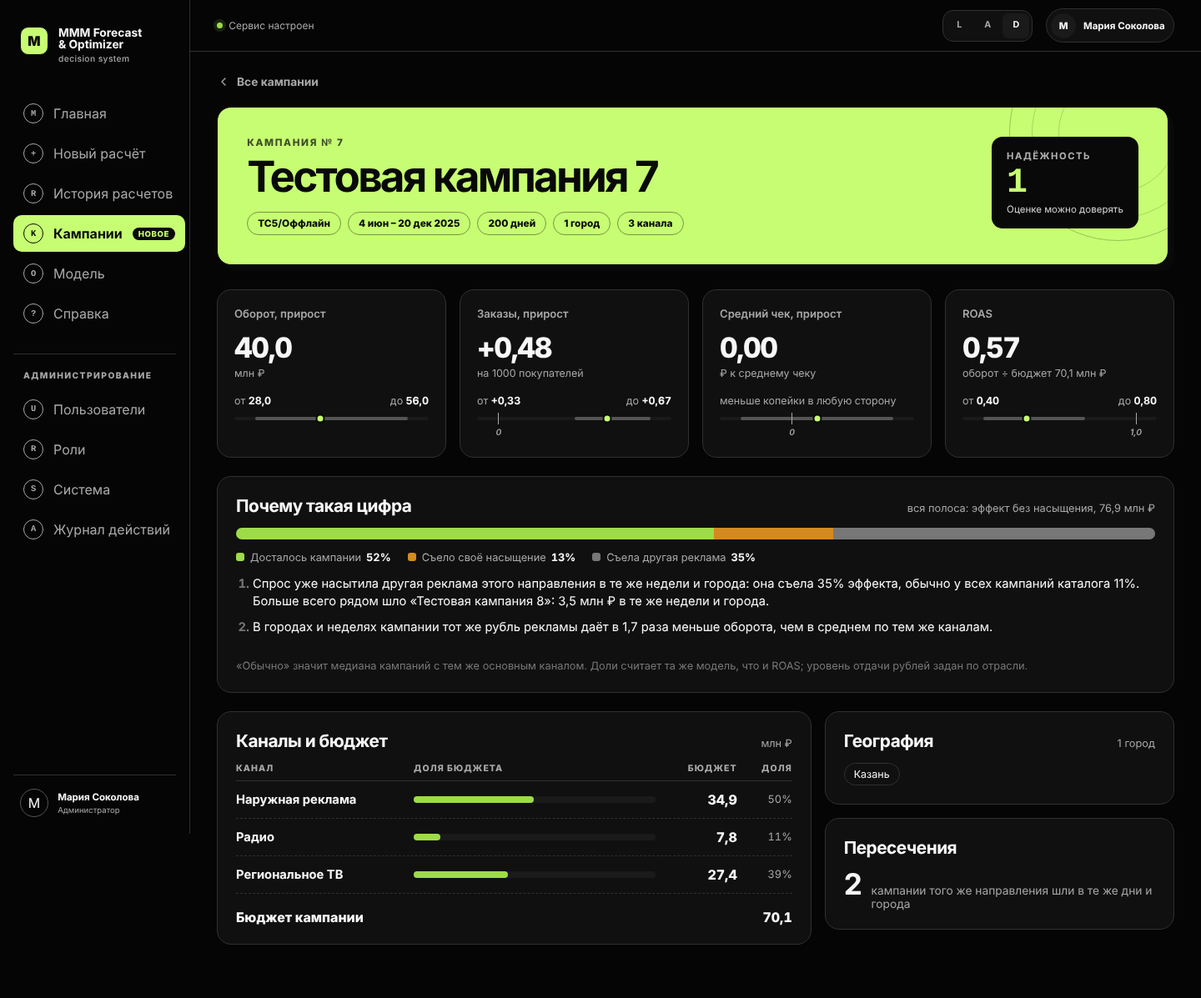
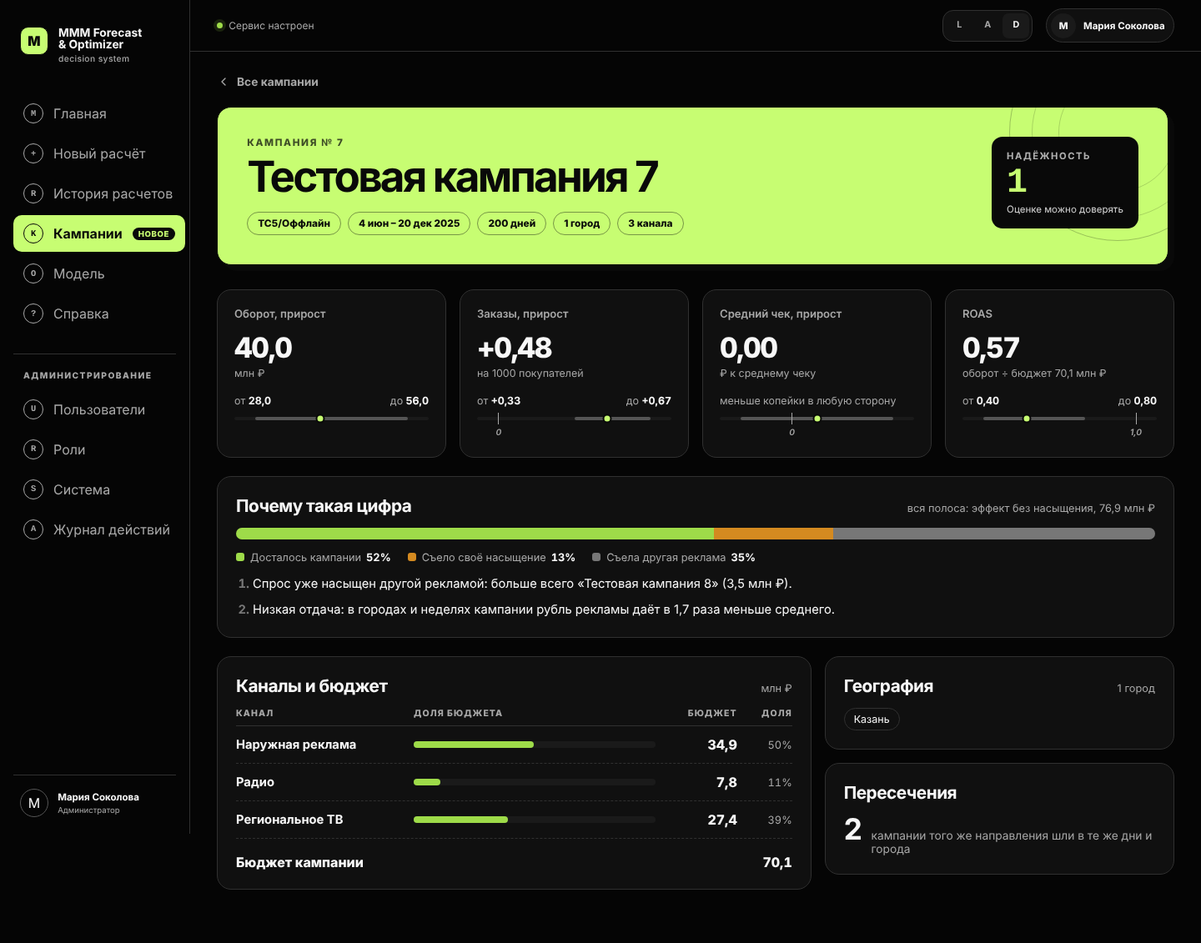
Past campaign reasons: short phrases, no caption under the bar
The owner asked for short, punchy reasons on five sample campaigns. Each
reason is now one phrase («Достигнут предел насыщения: весь бюджет в одном
месте (Екатеринбург)», «Спрос уже насыщен другой рекламой: больше всего
«Супергерои» (140 млн ₽)», «Эффект выходит за конец данных: 12% досчитано
прогнозом»); the shares stay on the bar. Notes can be one clause after a colon
(style clause), one ledger fact at most. New reason low_loss («Потерь меньше
обычного») only when nothing else pulls the number down. The caption under the
bar is gone; the model and industry-level remark stays on the technical sheet.

Claude-Session: https://claude.ai/code/session_011rCg2KirL1yJstxn19GVUy

diff --git a/04_Web_app/frontend/src/features/campaign-catalog/CampaignCatalogViews.test.tsx b/04_Web_app/frontend/src/features/campaign-catalog/CampaignCatalogViews.test.tsx
@@ -229,12 +229,12 @@ describe("past campaign card", () => {
     ]);
     const sentences = within(reasons).getAllByRole("listitem").slice(3).map((item) => item.textContent);
     expect(sentences).toEqual([
-      "Спрос уже насытила другая реклама этого направления в те же недели и города: она съела 21% эффекта, обычно у всех кампаний каталога 11%. Больше всего рядом шло «Тестовая кампания 5»: 2,3 млн ₽ в те же недели и города.",
-      "В городах и неделях кампании тот же рубль рекламы даёт в 1,4 раза больше оборота, чем в среднем по тем же каналам.",
-      "Кампания шла до конца данных: 18% эффекта досчитано прогнозом на 7 недель вперёд.",
+      "Спрос уже насыщен другой рекламой: больше всего «Тестовая кампания 5» (2,3 млн ₽).",
+      "Высокая отдача: в городах и неделях кампании рубль рекламы даёт в 1,4 раза больше среднего.",
+      "Эффект выходит за конец данных: 18% досчитано прогнозом.",
     ]);
-    expect(reasons).toHaveTextContent("«Обычно» значит медиана кампаний с тем же основным каналом.");
-    expect(reasons).toHaveTextContent("уровень отдачи рублей задан по отрасли.");
+    expect(reasons).not.toHaveTextContent("Обычно");
+    expect(reasons).not.toHaveTextContent("Доли считает");
   });
 
   it("shows the bar only when there is nothing specific to say about the campaign", () => {
@@ -243,8 +243,7 @@ describe("past campaign card", () => {
     expect(within(reasons).getByRole("img")).toBeInTheDocument();
     expect(within(reasons).getAllByRole("listitem")).toHaveLength(3);
     expect(reasons.querySelector("ol")).toBeNull();
-    expect(reasons).not.toHaveTextContent("Обычно");
-    expect(reasons).toHaveTextContent("Доли считает та же модель, что и ROAS; уровень отдачи рублей задан по отрасли.");
+    expect(reasons.querySelector("p")).toBeNull();
   });
 
   it("writes a share that rounds to 0% but is not zero as «меньше 1%»", () => {

diff --git a/04_Web_app/frontend/src/features/campaign-catalog/CampaignCardView.tsx b/04_Web_app/frontend/src/features/campaign-catalog/CampaignCardView.tsx
@@ -96,10 +96,6 @@ function Reasons({ explanation }: { explanation: Explanation }) {
           {explanation.reasons.map((reason) => <li key={reason.code}>{reason.display_text}</li>)}
         </ol>
       ) : null}
-      <p className={styles.reasonsNote}>
-        {explanation.reasons.length > 0 ? "«Обычно» значит медиана кампаний с тем же основным каналом. " : ""}
-        Доли считает та же модель, что и ROAS; уровень отдачи рублей задан по отрасли.
-      </p>
     </section>
   );
 }

diff --git a/04_Web_app/frontend/src/features/campaign-catalog/campaign-catalog.module.css b/04_Web_app/frontend/src/features/campaign-catalog/campaign-catalog.module.css
@@ -181,7 +181,6 @@
 .splitLegend b { margin-left: 6px; color: var(--text-primary); font-variant-numeric: tabular-nums; }
 .reasons { display: grid; gap: 10px; margin: 0; padding-left: 1.25rem; font-size: 0.92rem; line-height: 1.45; }
 .reasons li::marker { color: var(--text-tertiary); font-weight: 700; }
-.reasonsNote { margin: 12px 0 0; color: var(--text-tertiary); font-size: 0.8rem; line-height: 1.4; }
 
 @media (max-width: 1000px) {
   .metrics { grid-template-columns: repeat(2, minmax(0, 1fr)); }

diff --git a/02_Code/01_PyMC/tests/test_campaign_reasons.py b/02_Code/01_PyMC/tests/test_campaign_reasons.py
@@ -166,7 +166,7 @@ class RuleTests(unittest.TestCase):
         for entry in entries.values():
             self.assertEqual(entry['reasons'], [])
 
-    def test_own_saturation_with_the_campaign_facts(self) -> None:
+    def test_own_saturation_with_the_campaign_fact(self) -> None:
         rows = self.neutral('Региональное ТВ') + [('Региональное ТВ', False, dict(
             kept_share=0.2, own_loss_share=0.55, overlap_loss_share=0.25, saturation_loss_share=0.8), ['Москва'],
             dict(n_geo=1, top_geo='ЕКАТЕРИНБУРГ', top_geo_share=1.0, density_regional_rub=420.0))]
@@ -174,28 +174,34 @@ class RuleTests(unittest.TestCase):
         self.assertEqual(norms, [dict(main_channel='Региональное ТВ', campaigns_n=6, own_norm=1,
                                       norm_group='у кампаний на региональном ТВ', norm_kept_share=0.5,
                                       norm_own_loss_share=0.2, norm_overlap_loss_share=0.3, norm_density_rub=100.0)])
+        # one short phrase, one fact (the first that holds): the shares are on the bar
         self.assertEqual(entries['6']['reasons'], [dict(
             code='own_saturation', weight=entries['6']['reasons'][0]['weight'],
-            display_text='Кампания упёрлась в насыщение: оно съело 55% эффекта, обычно у кампаний на региональном ТВ '
-                         '20%. Весь бюджет в одном месте: Екатеринбург. Денег на город в неделю в 4,2 раза больше '
-                         'обычного.')])
+            display_text='Достигнут предел насыщения: весь бюджет в одном месте (Екатеринбург).')])
 
-    def test_own_saturation_without_facts_names_the_cities_with_most_loss(self) -> None:
+    def test_own_saturation_without_facts_is_said_plainly(self) -> None:
         rows = self.neutral('Наружная реклама') + [('Наружная реклама', False, dict(
             kept_share=0.2, own_loss_share=0.5, overlap_loss_share=0.3, saturation_loss_share=0.8),
             ['Краснодарский край (кроме Городов)'])]
         entries, _ = self.label(rows)
         self.assertEqual(entries['6']['own_loss_cities'], ['Краснодарский край (кроме городов)'])
-        self.assertTrue(entries['6']['reasons'][0]['display_text'].endswith(
-            'Больше всего потерь: Краснодарский край (кроме городов).'))
+        self.assertEqual(entries['6']['reasons'][0]['display_text'], 'Достигнут предел насыщения.')
 
-    def test_fast_burn_and_one_large_place(self) -> None:
+    def test_dense_money_before_a_large_place_and_fast_spend(self) -> None:
         rows = self.neutral('Радио') + [('Радио', False, dict(
             kept_share=0.2, own_loss_share=0.5, overlap_loss_share=0.3, saturation_loss_share=0.8), [],
             dict(n_geo=4, top_geo='МОСКВА', top_geo_share=0.54, weeks_n=4, burn_2w_share=0.67))]
         entries, _ = self.label(rows)
-        self.assertTrue(entries['6']['reasons'][0]['display_text'].endswith(
-            ' 54% бюджета в одном месте: Москва. 67% бюджета ушло за две недели из 4.'))
+        self.assertEqual(entries['6']['reasons'][0]['display_text'],
+                         'Достигнут предел насыщения: 54% бюджета в одном месте (Москва).')
+        rows[-1][4].update(density_regional_rub=420.0)
+        entries, _ = self.label(rows)
+        self.assertEqual(entries['6']['reasons'][0]['display_text'],
+                         'Достигнут предел насыщения: денег на город в неделю в 4,2 раза больше обычного.')
+        rows[-1][4].update(density_regional_rub=100.0, top_geo_share=0.3)
+        entries, _ = self.label(rows)
+        self.assertEqual(entries['6']['reasons'][0]['display_text'],
+                         'Достигнут предел насыщения: 67% бюджета за две недели.')
 
     def test_nationwide_campaign_compares_money_per_week(self) -> None:
         rows = self.neutral('Национальное ТВ', True) + [('Национальное ТВ', True, dict(
@@ -204,8 +210,7 @@ class RuleTests(unittest.TestCase):
         entries, _ = self.label(rows)
         first = entries['6']['reasons'][0]
         self.assertEqual(first['code'], 'own_saturation')
-        self.assertTrue(first['display_text'].endswith('Денег в неделю в 5 раз больше обычного.'))
-        self.assertNotIn('Москва', first['display_text'])
+        self.assertEqual(first['display_text'], 'Достигнут предел насыщения: денег в неделю в 5 раз больше обычного.')
 
     def test_overlap_only_above_the_channel_norm_with_the_neighbour(self) -> None:
         # most Indoor campaigns lose 80% to other ads: for Indoor that is the norm, not a reason
@@ -220,38 +225,45 @@ class RuleTests(unittest.TestCase):
         reason = entries['6']['reasons'][0]
         self.assertEqual(reason['code'], 'overlap')
         self.assertEqual(reason['display_text'],
-                         'Спрос уже насытила другая реклама этого направления в те же недели и города: она съела 55% '
-                         'эффекта, обычно у кампаний на радио 30%. Больше всего рядом шло «Промо 2025»: 12,3 млн ₽ в '
-                         'те же недели и города.')
+                         'Спрос уже насыщен другой рекламой: больше всего «Промо 2025» (12,3 млн ₽).')
+        entries, _ = self.label(high)  # no name for the neighbour: no neighbour in the text
+        self.assertEqual(entries['6']['reasons'][0]['display_text'], 'Спрос уже насыщен другой рекламой.')
 
-    def test_national_campaign_names_the_neighbour_by_weeks_and_tiny_shares_in_words(self) -> None:
-        rows = self.neutral('Национальное ТВ', True) + [('Национальное ТВ', True, dict(
-            kept_share=0.25, own_loss_share=0.2, overlap_loss_share=0.55, saturation_loss_share=0.75), [],
-            dict(neighbor_number=2, neighbor_rub=140_123_456.0))]
-        entries, _ = self.label(rows, names={'2': 'Супергерои'})
-        self.assertTrue(entries['6']['reasons'][0]['display_text'].endswith(
-            'Больше всего рядом шло «Супергерои»: 140 млн ₽ в те же недели.'))
-        thin = self.neutral('Национальное ТВ', True) + [('Национальное ТВ', True, dict(
-            kept_share=0.797, own_loss_share=0.003, overlap_loss_share=0.2, saturation_loss_share=0.203), [],
-            dict(density_national_rub=10.0))]
-        entries, _ = self.label(thin)
-        self.assertEqual(entries['6']['reasons'][0]['display_text'],
-                         'Деньги растянуты: в неделю в 10 раз меньше обычного, поэтому своё насыщение съело меньше 1% '
-                         'эффекта, обычно у кампаний на национальном ТВ 20%.')
-
-    def test_money_spread_thin_explains_a_high_share(self) -> None:
+    def test_money_spread_thin_and_tiny_shares(self) -> None:
         rows = self.neutral('Наружная реклама') + [('Наружная реклама', False, dict(
-            kept_share=0.8, own_loss_share=0.05, overlap_loss_share=0.15, saturation_loss_share=0.2), [],
+            kept_share=0.65, own_loss_share=0.05, overlap_loss_share=0.3, saturation_loss_share=0.35), [],
             dict(density_regional_rub=10.0))]
         entries, _ = self.label(rows)
-        self.assertEqual(entries['6']['reasons'][0]['display_text'],
-                         'Деньги растянуты: на город в неделю в 10 раз меньше обычного, поэтому своё насыщение съело '
-                         '5% эффекта, обычно у кампаний в наружной рекламе 20%.')
+        self.assertEqual([r['display_text'] for r in entries['6']['reasons']],
+                         ['Потерь меньше обычного: насыщения и другой рекламы меньше, чем у похожих кампаний.',
+                          'Насыщение ниже обычного: денег на город в неделю в 10 раз меньше.'])
         digital = self.neutral('Цифровая реклама') + [('Цифровая реклама', False, dict(
-            kept_share=0.8, own_loss_share=0.05, overlap_loss_share=0.15, saturation_loss_share=0.2), [],
+            kept_share=0.6, own_loss_share=0.05, overlap_loss_share=0.35, saturation_loss_share=0.4), [],
             dict(density_regional_rub=10.0))]
         entries, _ = self.label(digital)
         self.assertEqual(entries['6']['reasons'], [])  # digital money per city says little: no comparison
+        thin = self.neutral('Национальное ТВ', True) + [('Национальное ТВ', True, dict(
+            kept_share=0.647, own_loss_share=0.003, overlap_loss_share=0.35, saturation_loss_share=0.353), [],
+            dict(density_national_rub=10.0))]
+        entries, _ = self.label(thin)
+        self.assertEqual([r['display_text'] for r in entries['6']['reasons']],
+                         ['Насыщение ниже обычного: денег в неделю в 10 раз меньше.'])
+        self.assertEqual(cre.text_values(dict(entries['6']['factors']))['own_loss_pct'], 'меньше 1%')
+
+    def test_low_loss_only_when_nothing_else_pulls_the_number_down(self) -> None:
+        good = ('Цифровая реклама', False, dict(kept_share=0.8, own_loss_share=0.05, overlap_loss_share=0.15,
+                                                saturation_loss_share=0.2), [])
+        entries, _ = self.label(self.neutral('Цифровая реклама') + [good])
+        self.assertEqual([r['code'] for r in entries['6']['reasons']], ['low_loss'])
+        for over, code in ((dict(geo_factor=0.5, geo_weight=float(abs(np.log(0.5)))), 'weak_geo'),
+                           (dict(unseen_share=0.3), 'money_outside_model')):
+            entries, _ = self.label(self.neutral('Цифровая реклама') + [(*good[:2], {**good[2], **over}, [])])
+            self.assertEqual([r['code'] for r in entries['6']['reasons']], [code])
+        # most of the effect lost even if less than usual for the channel: not «меньше обычного»
+        indoor = self.neutral('Indoor') + [('Indoor', False, dict(
+            kept_share=0.45, own_loss_share=0.1, overlap_loss_share=0.45, saturation_loss_share=0.55), [])]
+        entries, _ = self.label(indoor)
+        self.assertNotIn('low_loss', [r['code'] for r in entries['6']['reasons']])
 
     def test_small_channel_is_compared_with_the_whole_catalog(self) -> None:
         rows = self.neutral('Цифровая реклама') + [('Радио', False, dict(
@@ -260,9 +272,8 @@ class RuleTests(unittest.TestCase):
         entries, norms = self.label(rows)
         radio = next(row for row in norms if row['main_channel'] == 'Радио')
         self.assertEqual((radio['own_norm'], radio['norm_group']), (0, 'у всех кампаний каталога'))
-        text = entries['6']['reasons'][0]['display_text']
-        self.assertIn('обычно у всех кампаний каталога 20%', text)
-        self.assertNotIn('больше обычного', text)  # money density is compared only inside the same channel
+        # own loss 65% against the catalog's 20%; money density is compared only inside the same channel
+        self.assertEqual(entries['6']['reasons'][0]['display_text'], 'Достигнут предел насыщения.')
 
     def test_saturation_first_then_special_cases_at_most_three(self) -> None:
         rows = self.neutral('Наружная реклама') + [('Наружная реклама', False, dict(
@@ -273,15 +284,15 @@ class RuleTests(unittest.TestCase):
         # rank 1 (saturation) by weight: overlap +0.20, own +0.20 (order breaks the tie); then the heaviest special case
         self.assertEqual(got, ['own_saturation', 'overlap', 'strong_geo'])
 
-    def test_weak_cities_and_tail_weeks_come_from_the_build(self) -> None:
+    def test_weak_cities_and_the_forecast_tail(self) -> None:
         rows = self.neutral('Цифровая реклама') + [('Цифровая реклама', False, dict(
             kept_share=0.5, own_loss_share=0.2, overlap_loss_share=0.3, saturation_loss_share=0.5, geo_factor=0.5,
             geo_weight=float(abs(np.log(0.5))), tail_share=0.3), [])]
         entries, _ = self.label(rows, tail_weeks=5)
         got = {r['code']: r['display_text'] for r in entries['6']['reasons']}
-        self.assertEqual(got['weak_geo'], 'В городах и неделях кампании тот же рубль рекламы даёт в 2 раза меньше '
-                                          'оборота, чем в среднем по тем же каналам.')
-        self.assertIn('прогнозом на 5 недель вперёд', got['tail_forecast'])
+        self.assertEqual(got['weak_geo'],
+                         'Низкая отдача: в городах и неделях кампании рубль рекламы даёт в 2 раза меньше среднего.')
+        self.assertEqual(got['tail_forecast'], 'Эффект выходит за конец данных: 30% досчитано прогнозом.')
 
     def test_at_most_three_reasons_and_saturation_before_special_cases(self) -> None:
         rng = np.random.default_rng(11)
@@ -353,6 +364,7 @@ class RuleTests(unittest.TestCase):
             lambda r: r.update(norms={'group_by': 'segment', 'statistic': 'median', 'min_group': 5}),
             lambda r: r.update(fallback={'code': r['rules'][0]['code'], 'text': 'x'}),
             lambda r: r['notes']['own_note'].update(max_items=0),
+            lambda r: r['notes']['own_note'].update(style='list'),
             lambda r: r['notes']['own_note']['items'][0].update(text='{own_note}'),
             lambda r: r['notes']['own_note']['items'][0]['conditions'].append({'field': 'n_geo', 'op': '='}),
             lambda r: r['notes'].update(top_geo={'max_items': 1, 'items': [{'conditions': [], 'text': 'x'}]}),

diff --git a/02_Code/01_PyMC/mmm_core/campaign_catalog_extension.py b/02_Code/01_PyMC/mmm_core/campaign_catalog_extension.py
@@ -903,9 +903,8 @@ def write_catalog_workbook(
             "Пустые ячейки: деньги кампании пришлись на города или недели, которых нет в модели, оценки нет.",
             "Почему такая цифра: эффект, который дали бы деньги кампании без насыщения, делится на три части: что "
             "досталось кампании, что съело её своё насыщение (много денег в те же города и недели) и что съела "
-            "другая реклама того же направления в те же недели и города, с эхом прошлых недель. Причины пишутся, "
-            "только когда есть что сказать про саму кампанию; иначе ячейка пустая. «Обычно» — медиана кампаний с тем "
-            "же основным каналом. Доли считает та же модель, что и ROAS; уровень отдачи рублей задан по отрасли.",
+            "другая реклама того же направления в те же недели и города, с эхом прошлых недель. Причины пишутся "
+            "коротко и только когда есть что сказать про саму кампанию; иначе ячейка пустая.",
         )
         for step, text in enumerate(notes):
             ws[f"A{note_row + step}"] = text
@@ -1459,18 +1458,21 @@ def _reason_tech_rows(reasons: SourceReasons | None) -> list[tuple[str, str]]:
         ),
         (
             "Причины словами",
-            "Только то, что говорит про саму кампанию, иначе причин нет и остаётся полоса. Сначала насыщение по "
-            "сравнению с кампаниями того же основного канала (медиана этой сборки каталога): своё насыщение или "
-            "другая реклама заметно выше обычного, или деньги растянуты и насыщения заметно меньше обычного. Потом "
-            "особые случаи: тот же рубль в городах и неделях кампании даёт заметно больше или меньше, деньги вне "
-            "модели, досчёт прогнозом. Всего до трёх.",
+            "Короткая фраза и только то, что говорит про саму кампанию, иначе причин нет и остаётся полоса. Сначала "
+            "потери по сравнению с кампаниями того же основного канала (медиана этой сборки каталога): достигнут "
+            "предел насыщения, спрос уже насыщен другой рекламой, насыщение ниже обычного (деньги растянуты) или "
+            "потерь меньше обычного (только если ничто другое не тянет цифру вниз). Потом особые случаи: высокая или "
+            "низкая отдача городов и недель кампании, бюджет без эффекта (нет данных о продажах), эффект за концом "
+            "данных досчитан прогнозом. Доли видны на полосе и в трёх колонках. Всего до трёх причин. Доли считает та "
+            "же модель, что и ROAS; уровень отдачи рублей задан по отрасли.",
         ),
         (
             "Факты журнала",
-            "К насыщению добавляются факты из журнала размещений: какая доля бюджета в одном месте, во сколько раз денег "
-            "на город в неделю (у национальных каналов в неделю) больше или меньше обычного для того же основного "
-            "канала (у цифровой рекламы не сравнивается), какая доля бюджета ушла за две недели подряд, какая "
-            "кампания того же направления вложила больше всего денег в те же недели и города.",
+            "К пределу насыщения добавляется один факт из журнала размещений: весь бюджет или его доля в одном месте, "
+            "во сколько раз денег на город в неделю (у национальных каналов в неделю) больше обычного для того же "
+            "основного канала (у цифровой рекламы не сравнивается) или какая доля бюджета ушла за две недели подряд. "
+            "К насыщению другой рекламой: кампания того же направления и канала, вложившая больше всего денег в те же "
+            "недели и места.",
         ),
         ("Версия справочника причин", f"{meta.get('rules_version')}, SHA-256 {meta.get('rules_sha256')}"),
         ("Версия кода причин", str(meta.get("code_version") or "")),

diff --git a/02_Code/01_PyMC/mmm_core/campaign_reasons.py b/02_Code/01_PyMC/mmm_core/campaign_reasons.py
@@ -130,8 +130,12 @@ def _check_conditions(conditions: Any, where: str, *, allow_empty: bool = False)
             raise CampaignReasonsError(f'{where}: threshold must be a number')
 
 
+NOTE_STYLES = ('sentences', 'clause')
+
+
 def _check_notes(notes: Any) -> list[str]:
-    """Notes are short facts appended to a rule text through a placeholder of the same name ({own_note})."""
+    """Notes are short facts appended to a rule text through a placeholder of the same name ({own_note}): as
+    sentences (style 'sentences', the default) or as one clause after a colon (style 'clause')."""
     if notes is None:
         return []
     if not isinstance(notes, Mapping):
@@ -143,6 +147,8 @@ def _check_notes(notes: Any) -> list[str]:
             raise CampaignReasonsError(f'reason note {name}: max_items must be a positive integer')
         if not isinstance(spec.get('items'), list) or not spec['items']:
             raise CampaignReasonsError(f'reason note {name}: items must be a non-empty list')
+        if spec.get('style', 'sentences') not in NOTE_STYLES:
+            raise CampaignReasonsError(f'reason note {name}: style must be one of {", ".join(NOTE_STYLES)}')
         for part in ('items', 'otherwise'):
             for item in spec.get(part) or []:
                 if not isinstance(item, Mapping) or set(item) != {'conditions', 'text'}:
@@ -279,7 +285,7 @@ def _holds(f: Mapping[str, Any], cond: Mapping[str, Any]) -> bool:
 
 def _notes(f: Mapping[str, Any], rules: Mapping[str, Any], values: Mapping[str, str]) -> dict[str, str]:
     """Each note: its items whose conditions hold (at most max_items, in file order), else its 'otherwise'
-    items; written as sentences that follow the rule text."""
+    items; written as sentences that follow the rule text, or as one clause after a colon (style 'clause')."""
     out = {}
     for name, spec in (rules.get('notes') or {}).items():
         texts = []
@@ -288,7 +294,10 @@ def _notes(f: Mapping[str, Any], rules: Mapping[str, Any], values: Mapping[str, 
                      if all(_holds(f, cond) for cond in item['conditions'])][:int(spec['max_items'])]
             if texts:
                 break
-        out[name] = ''.join(f' {_cap(t)}.' for t in texts)
+        if spec.get('style', 'sentences') == 'clause':
+            out[name] = ': ' + ', '.join(texts) if texts else ''
+        else:
+            out[name] = ''.join(f' {_cap(t)}.' for t in texts)
     return out
 
 

diff --git a/04_Web_app/docs/adr/0028-past-campaign-reasons-v1.md b/04_Web_app/docs/adr/0028-past-campaign-reasons-v1.md
@@ -2,10 +2,12 @@
 
 ## Status
 
-Proposed on 2026-11-05. The model owner saw a first version on sample cards
+Accepted on 2026-11-05. The model owner saw a first version on sample cards
 and asked to drop general sentences: a reason is shown only when it says
 something about the campaign itself, otherwise the card keeps the bar alone.
-The catalog with reasons is published only after the owner's explicit word.
+On five sample campaigns he then asked for short phrases (for example
+«Достигнут предел насыщения: весь бюджет в одном месте») and no caption under
+the bar, and approved the release.
 
 ## Context
 
@@ -44,16 +46,19 @@ active model. It can be split, draw by draw, without changing any number:
    same direction with the most money in the same weeks and places.
 3. The wording lives in a versioned rule file,
    `02_Code/01_PyMC/configs/campaign_catalog/reason_rules_v3.json`
-   (`campaign_reasons_v3_20261105`). A reason appears only when it is specific
-   to the campaign: its own saturation or other advertising clearly above the
-   norm of its main channel (with the ledger facts that show why), money
-   spread clearly thinner than usual, a clearly different return of its
-   cities and weeks, money outside the model, or effect counted by the
-   forecast. The norm is the median of campaigns of the same build with the
-   same main channel; a channel with fewer than five campaigns is compared
-   with the whole catalog (money density is then not compared). At most three
-   reasons; none is fine. Changing a sentence or a threshold means a new rule
-   file version.
+   (`campaign_reasons_v3_20261105`). Each reason is one short phrase; the
+   shares themselves are on the bar. A reason appears only when it is
+   specific to the campaign: its own saturation or other advertising clearly
+   above the norm of its main channel (with one ledger fact that shows why, or
+   the neighbour campaign), money spread clearly thinner than usual, clearly
+   fewer losses than usual (only when nothing else pulls the number down:
+   most of the effect kept, no weak cities, no money outside the model), a
+   clearly different return of its cities and weeks, money outside the model,
+   or effect counted by the forecast after the end of the data. The norm is
+   the median of campaigns of the same build with the same main channel; a
+   channel with fewer than five campaigns is compared with the whole catalog
+   (money density is then not compared). At most three reasons; none is fine.
+   Changing a sentence or a threshold means a new rule file version.
 4. `--relabel-from <earlier reasons folder>` applies a new rule version to the
    numbers of an earlier green run in seconds (with `--ledger` when that run
    has no ledger facts); it refuses a run that belongs to another catalog or
@@ -68,10 +73,12 @@ active model. It can be split, draw by draw, without changing any number:
    a sentence, and the rule version); `schema_version` becomes `1.1.0`. A
    published `1.0.0` catalog is still served, with `explanation: null`, and the
    card then shows no reasons block.
-7. The card shows a three-part bar, the reasons when there are any, and one
-   line saying that the shares come from the same model as ROAS and that the
-   level of the ruble return is set by industry values. The Excel sheets gain
-   four columns: the three shares and the reasons text (empty when none).
+7. The card shows a three-part bar and the reasons when there are any, with
+   no caption below. A share that rounds to 0% but is not zero reads
+   «меньше 1%». The Excel sheets gain four columns: the three shares and the
+   reasons text (empty when none); the technical sheet says that the shares
+   come from the same model as ROAS and that the level of the ruble return is
+   set by industry values.
 
 ## Consequences
 
